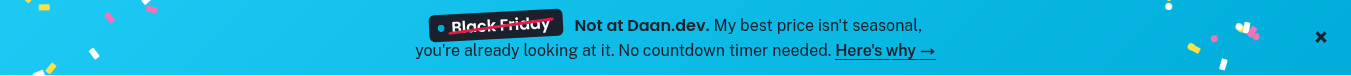
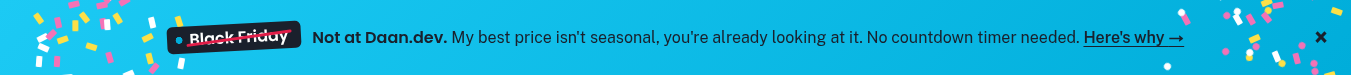
More confetti and padding, and the text on one line on desktop

diff --git a/assets/bar.css b/assets/bar.css
@@ -10,7 +10,7 @@
     position: relative;
     box-sizing: border-box;
     overflow: hidden;
-    padding: .75rem 3.5rem;
+    padding: 1.5rem 3.5rem;
     background: linear-gradient(135deg, var(--nbf-from), var(--nbf-to));
     color: var(--nbf-color);
     font-size: 1rem;
@@ -20,8 +20,7 @@
 
 .nbf .nbf__text {
     position: relative;
-    max-width: 60rem;
-    margin: 0 auto;
+    margin: 0;
     text-wrap: balance;
 }
 
@@ -134,30 +133,76 @@
     border-radius: 50%;
 }
 
-.nbf__confetti i:nth-child(1) { left: 5.5%; animation-duration: 7.8s; animation-delay: -7.2s; }
-.nbf__confetti i:nth-child(2) { left: 89.7%; animation-duration: 7.5s; animation-delay: -4.4s; }
-.nbf__confetti i:nth-child(3) { left: 2.9%; animation-duration: 7.6s; animation-delay: -4.8s; }
-.nbf__confetti i:nth-child(4) { left: 92.3%; animation-duration: 5.5s; animation-delay: -1.7s; }
-.nbf__confetti i:nth-child(5) { left: 1.9%; animation-duration: 9.0s; animation-delay: -6.3s; }
-.nbf__confetti i:nth-child(6) { left: 86.3%; animation-duration: 9.9s; animation-delay: -9.6s; }
-.nbf__confetti i:nth-child(7) { left: 7.6%; animation-duration: 8.1s; animation-delay: -1.3s; }
-.nbf__confetti i:nth-child(8) { left: 86.1%; animation-duration: 7.6s; animation-delay: -0.5s; }
-.nbf__confetti i:nth-child(9) { left: 2.9%; animation-duration: 6.2s; animation-delay: -0.2s; }
-.nbf__confetti i:nth-child(10) { left: 89.7%; animation-duration: 7.2s; animation-delay: -6.1s; }
-.nbf__confetti i:nth-child(11) { left: 6.2%; animation-duration: 8.2s; animation-delay: -4.1s; }
-.nbf__confetti i:nth-child(12) { left: 91.3%; animation-duration: 7.3s; animation-delay: -2.0s; }
-.nbf__confetti i:nth-child(13) { left: 11.0%; animation-duration: 10.0s; animation-delay: -8.4s; }
-.nbf__confetti i:nth-child(14) { left: 91.7%; animation-duration: 6.6s; animation-delay: -1.5s; }
-.nbf__confetti i:nth-child(15) { left: 3.9%; animation-duration: 5.4s; animation-delay: -4.1s; }
-.nbf__confetti i:nth-child(16) { left: 89.2%; animation-duration: 9.2s; animation-delay: -3.6s; }
-.nbf__confetti i:nth-child(17) { left: 10.6%; animation-duration: 9.2s; animation-delay: -0.0s; }
-.nbf__confetti i:nth-child(18) { left: 87.7%; animation-duration: 9.6s; animation-delay: -4.5s; }
-.nbf__confetti i:nth-child(19) { left: 10.8%; animation-duration: 7.0s; animation-delay: -0.5s; }
-.nbf__confetti i:nth-child(20) { left: 91.1%; animation-duration: 8.9s; animation-delay: -2.4s; }
-.nbf__confetti i:nth-child(21) { left: 1.9%; animation-duration: 6.7s; animation-delay: -6.4s; }
-.nbf__confetti i:nth-child(22) { left: 92.1%; animation-duration: 5.6s; animation-delay: -1.4s; }
-.nbf__confetti i:nth-child(23) { left: 2.0%; animation-duration: 5.3s; animation-delay: -4.2s; }
-.nbf__confetti i:nth-child(24) { left: 87.4%; animation-duration: 7.8s; animation-delay: -3.5s; }
+.nbf__confetti i:nth-child(1) { left: 7.8%; animation-duration: 7.5s; animation-delay: -7.2s; }
+.nbf__confetti i:nth-child(2) { left: 90.1%; animation-duration: 4.3s; animation-delay: -3.6s; }
+.nbf__confetti i:nth-child(3) { left: 4.7%; animation-duration: 5.9s; animation-delay: -4.8s; }
+.nbf__confetti i:nth-child(4) { left: 89.9%; animation-duration: 8.5s; animation-delay: -4.2s; }
+.nbf__confetti i:nth-child(5) { left: 2.1%; animation-duration: 8.6s; animation-delay: -4.9s; }
+.nbf__confetti i:nth-child(6) { left: 87.9%; animation-duration: 8.2s; animation-delay: -6.3s; }
+.nbf__confetti i:nth-child(7) { left: 8.9%; animation-duration: 7.3s; animation-delay: -7.2s; }
+.nbf__confetti i:nth-child(8) { left: 85.5%; animation-duration: 8.9s; animation-delay: -5.7s; }
+.nbf__confetti i:nth-child(9) { left: 4.0%; animation-duration: 7.1s; animation-delay: -2.4s; }
+.nbf__confetti i:nth-child(10) { left: 95.2%; animation-duration: 7.5s; animation-delay: -3.9s; }
+.nbf__confetti i:nth-child(11) { left: 2.5%; animation-duration: 6.0s; animation-delay: -1.8s; }
+.nbf__confetti i:nth-child(12) { left: 96.0%; animation-duration: 8.7s; animation-delay: -6.7s; }
+.nbf__confetti i:nth-child(13) { left: 6.5%; animation-duration: 4.9s; animation-delay: -3.4s; }
+.nbf__confetti i:nth-child(14) { left: 91.1%; animation-duration: 9.0s; animation-delay: -1.6s; }
+.nbf__confetti i:nth-child(15) { left: 13.5%; animation-duration: 4.1s; animation-delay: -3.2s; }
+.nbf__confetti i:nth-child(16) { left: 92.2%; animation-duration: 6.9s; animation-delay: -2.9s; }
+.nbf__confetti i:nth-child(17) { left: 4.5%; animation-duration: 6.2s; animation-delay: -5.0s; }
+.nbf__confetti i:nth-child(18) { left: 92.2%; animation-duration: 5.8s; animation-delay: -4.5s; }
+.nbf__confetti i:nth-child(19) { left: 3.4%; animation-duration: 5.8s; animation-delay: -3.0s; }
+.nbf__confetti i:nth-child(20) { left: 94.0%; animation-duration: 4.8s; animation-delay: -3.7s; }
+.nbf__confetti i:nth-child(21) { left: 6.1%; animation-duration: 4.5s; animation-delay: -1.5s; }
+.nbf__confetti i:nth-child(22) { left: 87.3%; animation-duration: 5.7s; animation-delay: -0.7s; }
+.nbf__confetti i:nth-child(23) { left: 4.0%; animation-duration: 6.8s; animation-delay: -4.7s; }
+.nbf__confetti i:nth-child(24) { left: 91.6%; animation-duration: 6.3s; animation-delay: -3.2s; }
+.nbf__confetti i:nth-child(25) { left: 7.1%; animation-duration: 8.5s; animation-delay: -1.8s; }
+.nbf__confetti i:nth-child(26) { left: 96.2%; animation-duration: 6.8s; animation-delay: -6.1s; }
+.nbf__confetti i:nth-child(27) { left: 8.2%; animation-duration: 4.0s; animation-delay: -0.2s; }
+.nbf__confetti i:nth-child(28) { left: 96.4%; animation-duration: 5.5s; animation-delay: -3.4s; }
+.nbf__confetti i:nth-child(29) { left: 2.5%; animation-duration: 6.8s; animation-delay: -2.8s; }
+.nbf__confetti i:nth-child(30) { left: 93.4%; animation-duration: 4.0s; animation-delay: -3.6s; }
+.nbf__confetti i:nth-child(31) { left: 10.5%; animation-duration: 7.7s; animation-delay: -4.8s; }
+.nbf__confetti i:nth-child(32) { left: 90.6%; animation-duration: 5.0s; animation-delay: -4.2s; }
+.nbf__confetti i:nth-child(33) { left: 4.7%; animation-duration: 5.9s; animation-delay: -5.2s; }
+.nbf__confetti i:nth-child(34) { left: 92.1%; animation-duration: 9.0s; animation-delay: -1.6s; }
+.nbf__confetti i:nth-child(35) { left: 10.7%; animation-duration: 5.5s; animation-delay: -0.8s; }
+.nbf__confetti i:nth-child(36) { left: 93.4%; animation-duration: 8.1s; animation-delay: -0.8s; }
+.nbf__confetti i:nth-child(37) { left: 7.2%; animation-duration: 8.3s; animation-delay: -0.3s; }
+.nbf__confetti i:nth-child(38) { left: 93.7%; animation-duration: 5.6s; animation-delay: -2.6s; }
+.nbf__confetti i:nth-child(39) { left: 10.3%; animation-duration: 6.2s; animation-delay: -1.9s; }
+.nbf__confetti i:nth-child(40) { left: 90.3%; animation-duration: 8.1s; animation-delay: -1.2s; }
+.nbf__confetti i:nth-child(41) { left: 8.6%; animation-duration: 9.0s; animation-delay: -6.2s; }
+.nbf__confetti i:nth-child(42) { left: 97.5%; animation-duration: 4.6s; animation-delay: -2.8s; }
+.nbf__confetti i:nth-child(43) { left: 7.3%; animation-duration: 4.4s; animation-delay: -1.9s; }
+.nbf__confetti i:nth-child(44) { left: 91.7%; animation-duration: 4.6s; animation-delay: -1.9s; }
+.nbf__confetti i:nth-child(45) { left: 2.4%; animation-duration: 8.6s; animation-delay: -1.4s; }
+.nbf__confetti i:nth-child(46) { left: 94.2%; animation-duration: 7.5s; animation-delay: -0.2s; }
+.nbf__confetti i:nth-child(47) { left: 12.6%; animation-duration: 8.6s; animation-delay: -5.0s; }
+.nbf__confetti i:nth-child(48) { left: 94.0%; animation-duration: 8.3s; animation-delay: -5.0s; }
+.nbf__confetti i:nth-child(49) { left: 3.8%; animation-duration: 8.7s; animation-delay: -1.8s; }
+.nbf__confetti i:nth-child(50) { left: 94.4%; animation-duration: 6.7s; animation-delay: -5.2s; }
+.nbf__confetti i:nth-child(51) { left: 5.0%; animation-duration: 7.2s; animation-delay: -1.5s; }
+.nbf__confetti i:nth-child(52) { left: 95.6%; animation-duration: 4.8s; animation-delay: -1.7s; }
+.nbf__confetti i:nth-child(53) { left: 6.4%; animation-duration: 7.6s; animation-delay: -6.9s; }
+.nbf__confetti i:nth-child(54) { left: 98.5%; animation-duration: 6.4s; animation-delay: -0.4s; }
+.nbf__confetti i:nth-child(55) { left: 7.2%; animation-duration: 6.9s; animation-delay: -5.1s; }
+.nbf__confetti i:nth-child(56) { left: 87.0%; animation-duration: 8.0s; animation-delay: -1.0s; }
+.nbf__confetti i:nth-child(57) { left: 10.3%; animation-duration: 8.9s; animation-delay: -4.8s; }
+.nbf__confetti i:nth-child(58) { left: 93.3%; animation-duration: 7.3s; animation-delay: -1.0s; }
+.nbf__confetti i:nth-child(59) { left: 7.9%; animation-duration: 8.2s; animation-delay: -7.7s; }
+.nbf__confetti i:nth-child(60) { left: 95.6%; animation-duration: 7.6s; animation-delay: -7.3s; }
+.nbf__confetti i:nth-child(61) { left: 5.1%; animation-duration: 5.7s; animation-delay: -5.6s; }
+.nbf__confetti i:nth-child(62) { left: 87.5%; animation-duration: 5.7s; animation-delay: -4.3s; }
+.nbf__confetti i:nth-child(63) { left: 12.7%; animation-duration: 8.0s; animation-delay: -1.5s; }
+.nbf__confetti i:nth-child(64) { left: 96.4%; animation-duration: 5.1s; animation-delay: -2.7s; }
+.nbf__confetti i:nth-child(65) { left: 7.4%; animation-duration: 8.9s; animation-delay: -2.0s; }
+.nbf__confetti i:nth-child(66) { left: 92.2%; animation-duration: 5.5s; animation-delay: -1.6s; }
+.nbf__confetti i:nth-child(67) { left: 3.2%; animation-duration: 6.0s; animation-delay: -1.6s; }
+.nbf__confetti i:nth-child(68) { left: 91.1%; animation-duration: 8.2s; animation-delay: -0.9s; }
+.nbf__confetti i:nth-child(69) { left: 5.8%; animation-duration: 4.2s; animation-delay: -0.2s; }
+.nbf__confetti i:nth-child(70) { left: 96.9%; animation-duration: 7.9s; animation-delay: -7.4s; }
 
 @keyframes nbf-fall {
     to {
@@ -184,7 +229,7 @@
         opacity: .35;
     }
 
-    .nbf__confetti i:nth-child(n + 13) {
+    .nbf__confetti i:nth-child(n + 31) {
         display: none;
     }
 }

diff --git a/src/Bar.php b/src/Bar.php
@@ -48,7 +48,7 @@ class Bar {
 		$url = $this->get_url();
 		?>
 		<div id="no-black-friday" class="nbf" role="region" aria-label="<?php esc_attr_e( 'No Black Friday deals', 'wp-no-black-friday' ); ?>" data-year="<?php echo esc_attr( wp_date( 'Y' ) ); ?>" data-until="<?php echo esc_attr( $this->get_end() ); ?>">
-			<div class="nbf__confetti" aria-hidden="true"><?php echo str_repeat( '<i></i>', 24 ); ?></div>
+			<div class="nbf__confetti" aria-hidden="true"><?php echo str_repeat( '<i></i>', 70 ); ?></div>
 			<p class="nbf__text">
 				<span class="nbf__tag"><del><?php esc_html_e( 'Black Friday', 'wp-no-black-friday' ); ?></del></span>
 				<span><?php echo wp_kses_post( $this->get_text() ); ?></span>
